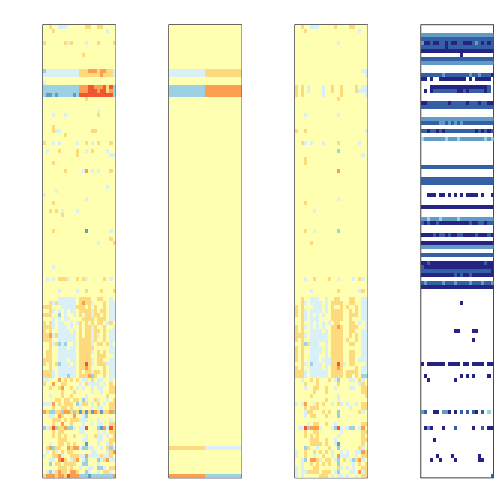
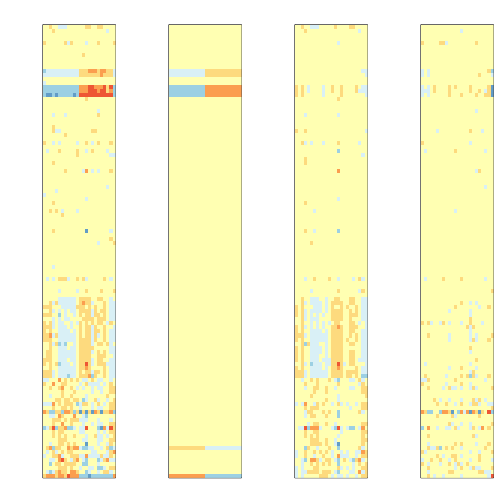
updating svn combat

Changed region(s): [[0.8333, 0.0298, 0.9821, 0.9524]]

diff --git a/pages/svacombat.md b/pages/svacombat.md
@@ -5,7 +5,6 @@ title: Batch adjustment
 
 
 
-
 To illustrate how we can adjust for batch effects using statistcal methods, we will create a data example in which the outcome of interest is confounded with batch but not completely. We will also select a outcome for which we have an expectation of what genes should be differentially expressed. Namely, we make sex the outcome of interest and expect genes on the Y chromosome to be differentially expressed. Note that we may also see genes from the X chromosome as differentially expressed as some escape X inactivation. 
 
 We start by finding the genes on the Y chromosome.
@@ -25,7 +24,6 @@ library(Biobase)
 
 ```
 ## Loading required package: BiocGenerics
-## Loading required package: methods
 ## Loading required package: parallel
 ## 
 ## Attaching package: 'BiocGenerics'
@@ -71,7 +69,7 @@ library(genefilter)
 
 ```r
 data(GSE5859)
-library(hgfocus.db)  ##get the gene chromosome
+library(hgfocus.db) ##get the gene chromosome
 ```
 
 ```
@@ -82,30 +80,24 @@ library(hgfocus.db)  ##get the gene chromosome
 ```
 
 ```r
-chr <- mget(featureNames(e), hgfocusCHRLOC)
-chr <- sapply(chr, function(x) {
-    tmp <- names(x[1])
-    ifelse(is.null(tmp), NA, paste0("chr", tmp))
-})
-y <- colMeans(exprs(e)[which(chr == "chrY"), ])
-sex <- ifelse(y < 4.5, "F", "M")
+chr<-mget(featureNames(e),hgfocusCHRLOC)
+chr <- sapply(chr,function(x){ tmp<-names(x[1]); ifelse(is.null(tmp),NA,paste0("chr",tmp))})
+y<- colMeans(exprs(e)[which(chr=="chrY"),])
+sex <- ifelse(y<4.5,"F","M")
 ```
-
 
 Now we select samples so that sex and month of hybridization are confounded. 
 
 ```r
-batch <- format(pData(e)$date, "%y%m")
-ind <- which(batch %in% c("0506", "0510"))
+batch <- format(pData(e)$date,"%y%m")
+ind<-which(batch%in%c("0506","0510"))
 set.seed(1)
-N <- 12
-N1 <- 3
-M <- 12
-M1 <- 9
-ind <- c(sample(which(batch == "0506" & sex == "F"), N1), sample(which(batch == 
-    "0510" & sex == "F"), N - N1), sample(which(batch == "0506" & sex == "M"), 
-    M1), sample(which(batch == "0510" & sex == "M"), M - M1))
-table(batch[ind], sex[ind])
+N <- 12; N1 <-3; M<-12; M1<-9
+ind <- c(sample(which(batch=="0506" & sex=="F"),N1),
+sample(which(batch=="0510" & sex=="F"),N-N1),
+sample(which(batch=="0506" & sex=="M"),M1),
+sample(which(batch=="0510" & sex=="M"),M-M1))
+table(batch[ind],sex[ind])
 ```
 
 ```
@@ -115,26 +107,24 @@ table(batch[ind], sex[ind])
 ##   0510 9 3
 ```
 
-
 To illustrate the confounding we will pick some genes to show in a heatmap plot. We pick all Y chromosome genes, some genes that we see correlate with batch, and then some randomly selected genes.
 
 
 ```r
 set.seed(1)
-tt <- genefilter::rowttests(exprs(e)[, ind], factor(batch[ind]))
-ind1 <- which(chr == "chrY")  ##real differences
-ind2 <- setdiff(c(order(tt$dm)[1:25], order(-tt$dm)[1:25]), ind1)
-ind0 <- setdiff(sample(seq(along = tt$dm), 50), c(ind2, ind1))
-geneindex <- c(ind2, ind0, ind1)
-mat <- exprs(e)[geneindex, ind]
-mat <- mat - rowMeans(mat)  #;mat[mat>3]<-3;mat[mat< -3]<- -3
-icolors <- rev(brewer.pal(11, "RdYlBu"))
-mypar(1, 1)
-image(t(mat), xaxt = "n", yaxt = "n", col = icolors)
+tt<-genefilter::rowttests(exprs(e)[,ind],factor(batch[ind]))
+ind1 <- which(chr=="chrY") ##real differences
+ind2 <- setdiff(c(order(tt$dm)[1:25],order(-tt$dm)[1:25]),ind1)
+ind0 <- setdiff(sample(seq(along=tt$dm),50),c(ind2,ind1))
+geneindex<-c(ind2,ind0,ind1)
+mat<-exprs(e)[geneindex,ind]
+mat <- mat-rowMeans(mat)#;mat[mat>3]<-3;mat[mat< -3]<- -3
+icolors <- rev(brewer.pal(11,"RdYlBu"))
+mypar(1,1)
+image(t(mat),xaxt="n",yaxt="n",col=icolors)
 ```
 
 ![plot of chunk unnamed-chunk-3](figure/svacombat-unnamed-chunk-3.png) 
-
 
 So what follows is like the analysis we would do in practice. We don't know there is a batch and we are interested in finding genes that are different between males and females. We start by computing t-statistics and p-values comparing males and females. We use histograms to notice the problem introduced by the batch.
 
@@ -144,14 +134,13 @@ The batch effect adjustment methods are best described with the linear models so
 
 
 ```r
-dat <- exprs(e)[, ind]
-X <- sex[ind]  ## the covariate
+dat <- exprs(e)[,ind]
+X <- sex[ind] ## the covariate
 Z <- batch[ind]
-tt <- genefilter::rowttests(dat, factor(X))
-HLIM <- c(0, 1500)
-mypar(1, 2)
-hist(tt$p[!chr %in% c("chrX", "chrY")], nc = 20, xlab = "p-value", ylim = HLIM, 
-    main = "")
+tt<-genefilter::rowttests(dat,factor(X))
+HLIM<-c(0,1500)
+mypar(1,2)
+hist(tt$p[!chr%in%c("chrX","chrY")],nc=20,xlab="p-value",ylim=HLIM,main="")
 ```
 
 ```
@@ -159,7 +148,7 @@ hist(tt$p[!chr %in% c("chrX", "chrY")], nc = 20, xlab = "p-value", ylim = HLIM,
 ```
 
 ```r
-hist(tt$p[chr %in% c("chrY")], nc = 20, xlab = "p-value", ylim = c(0, 9), main = "")
+hist(tt$p[chr%in%c("chrY")],nc=20,xlab="p-value",ylim=c(0,9),main="")
 ```
 
 ```
@@ -167,7 +156,6 @@ hist(tt$p[chr %in% c("chrY")], nc = 20, xlab = "p-value", ylim = c(0, 9), main =
 ```
 
 ![plot of chunk unnamed-chunk-4](figure/svacombat-unnamed-chunk-4.png) 
-
 
 
 ## Combat
@@ -183,12 +171,12 @@ library(sva)
 ## Loading required package: corpcor
 ## Loading required package: mgcv
 ## Loading required package: nlme
-## This is mgcv 1.7-29. For overview type 'help("mgcv-package")'.
+## This is mgcv 1.8-1. For overview type 'help("mgcv-package")'.
 ```
 
 ```r
-mod <- model.matrix(~X)
-cleandat <- ComBat(dat, Z, mod)
+mod<-model.matrix(~X)
+cleandat <- ComBat(dat,Z,mod)
 ```
 
 ```
@@ -201,10 +189,9 @@ cleandat <- ComBat(dat, Z, mod)
 ```
 
 ```r
-tt <- genefilter::rowttests(cleandat, factor(X))
-mypar(1, 1)
-hist(tt$p[!chr %in% c("chrX", "chrY")], nc = 20, xlab = "p-value", ylim = HLIM, 
-    main = "")
+tt<-genefilter::rowttests(cleandat,factor(X))
+mypar(1,1)
+hist(tt$p[!chr%in%c("chrX","chrY")],nc=20,xlab="p-value",ylim=HLIM,main="")
 ```
 
 ```
@@ -214,7 +201,7 @@ hist(tt$p[!chr %in% c("chrX", "chrY")], nc = 20, xlab = "p-value", ylim = HLIM,
 ![plot of chunk unnamed-chunk-5](figure/svacombat-unnamed-chunk-51.png) 
 
 ```r
-hist(tt$p[chr %in% c("chrY")], nc = 20, xlab = "p-value", ylim = c(0, 9), main = "")
+hist(tt$p[chr%in%c("chrY")],nc=20,xlab="p-value",ylim=c(0,9),main="")
 ```
 
 ```
@@ -223,20 +210,18 @@ hist(tt$p[chr %in% c("chrY")], nc = 20, xlab = "p-value", ylim = c(0, 9), main =
 
 ![plot of chunk unnamed-chunk-5](figure/svacombat-unnamed-chunk-52.png) 
 
-
 But what exactly is a batch?
 
 ```r
 times <- (pData(e)$date)
-mypar(1, 2)
-o = order(times)
-plot(times[o], pch = 21, bg = as.fumeric(batch)[o], ylab = "date")
-o = order(times[ind])
-plot(times[ind][o], pch = 21, bg = as.fumeric(batch)[ind][o], ylab = "date")
+mypar(1,2)
+o=order(times)
+plot(times[o],pch=21,bg=as.fumeric(batch)[o],ylab="date")
+o=order(times[ind])
+plot(times[ind][o],pch=21,bg=as.fumeric(batch)[ind][o],ylab="date")
 ```
 
 ![plot of chunk unnamed-chunk-6](figure/svacombat-unnamed-chunk-6.png) 
-
 
 
 ## Principal component analysis and Singular value decomposition
@@ -297,77 +282,67 @@ library(MASS)
 
 ```r
 set.seed(1)
-y = mvrnorm(1000, c(0, 0), 3^2 * matrix(c(1, 0.9, 0.9, 1), 2, 2))
-mypar(1, 1)
-plot(y, xlab = "Twin 1 (inches away from avg)", ylab = "Twin 2 (inches away from avg)")
+y=mvrnorm(1000,c(0,0),3^2*matrix(c(1,.9,.9,1),2,2))
+mypar(1,1)
+plot(y,xlab="Twin 1 (inches away from avg)",ylab="Twin 2 (inches away from avg)")
 ```
 
 ![plot of chunk unnamed-chunk-7](figure/svacombat-unnamed-chunk-7.png) 
-
 
 
 Transmitting the two heights seems inefficient given how correlated they. If we tranmist the pricipal components instead we save money. Let's see how:
 
 
 ```r
-s = svd(y)
-plot(s$u[, 1] * s$d[1], s$u[, 2] * s$d[2], ylim = range(s$u[, 1] * s$d[1]), 
-    xlab = "First PC", ylab = "Second PC")
+s=svd(y)
+plot(s$u[,1]*s$d[1],s$u[,2]*s$d[2],ylim=range(s$u[,1]*s$d[1]),xlab="First PC",ylab="Second PC")
 ```
 
 ![plot of chunk unnamed-chunk-8](figure/svacombat-unnamed-chunk-8.png) 
-
 
 ## SVA
 
 
 ```r
-s <- svd(dat - rowMeans(dat))
-mypar(1, 1)
-o <- order(Z)
-plot(s$v[o, 1], pch = 21, cex = 1.25, bg = as.fumeric(Z)[o], ylab = "First eigenvector", 
-    xaxt = "n", xlab = "")
-legend("topleft", c("batch 1", "batch 2"), col = 1:2, lty = 1, box.lwd = 0)
+s <- svd(dat-rowMeans(dat))
+mypar(1,1)
+o<-order(Z)
+plot(s$v[o,1],pch=21,cex=1.25,bg=as.fumeric(Z)[o],ylab="First eigenvector",xaxt="n",xlab="")
+legend("topleft",c("batch 1","batch 2"),col=1:2,lty=1,box.lwd=0)
 ```
 
 ![plot of chunk unnamed-chunk-9](figure/svacombat-unnamed-chunk-91.png) 
 
 ```r
-
-mypar(1, 1)
-plot(s$d^2/sum(s$d^2), ylab = "% variance explained", xlab = "Principal component")
+mypar(1,1)
+plot(s$d^2/sum(s$d^2),ylab="% variance explained",xlab="Principal component")
 ```
 
 ![plot of chunk unnamed-chunk-9](figure/svacombat-unnamed-chunk-92.png) 
 
 ```r
-
-mypar2(3, 4)
-for (i in 1:12) boxplot(split(s$v[, i], Z))
+mypar2(3,4)
+for(i in 1:12)
+boxplot(split(s$v[,i],Z))
 ```
 
 ![plot of chunk unnamed-chunk-9](figure/svacombat-unnamed-chunk-93.png) 
 
 ```r
-
 times <- (pData(e)$date)
-day <- as.numeric(times[ind])
-day <- day - min(day)
-for (i in 1:12) boxplot(split(s$v[, i], day))
+day<-as.numeric(times[ind]);day<- day-min(day)
+for(i in 1:12)
+boxplot(split(s$v[,i],day))
 ```
 
 ![plot of chunk unnamed-chunk-9](figure/svacombat-unnamed-chunk-94.png) 
 
 ```r
-
-
-D <- s$d
-D[1:6] <- 0  ##take out first 2
-cleandat <- sweep(s$u, 2, D, "*") %*% t(s$v)
-tt <- rowttests(cleandat, factor(X))
-mypar(1, 2)
-hist(tt$p[!chr %in% c("chrX", "chrY")], nc = 20, xlab = "p-value", ylim = HLIM, 
-    main = "")
+D <- s$d; D[1:6]<-0 ##take out first 2
+cleandat <- sweep(s$u,2,D,"*")%*%t(s$v)
+tt<-rowttests(cleandat,factor(X))
+mypar(1,2)
+hist(tt$p[!chr%in%c("chrX","chrY")],nc=20,xlab="p-value",ylim=HLIM,main="")
 ```
 
 ```
@@ -375,7 +350,7 @@ hist(tt$p[!chr %in% c("chrX", "chrY")], nc = 20, xlab = "p-value", ylim = HLIM,
 ```
 
 ```r
-hist(tt$p[chr %in% c("chrY")], nc = 20, xlab = "p-value", ylim = c(0, 9), main = "")
+hist(tt$p[chr%in%c("chrY")],nc=20,xlab="p-value",ylim=c(0,9),main="")
 ```
 
 ```
@@ -383,7 +358,6 @@ hist(tt$p[chr %in% c("chrY")], nc = 20, xlab = "p-value", ylim = c(0, 9), main =
 ```
 
 ![plot of chunk unnamed-chunk-9](figure/svacombat-unnamed-chunk-95.png) 
-
 
 
 ```r
@@ -400,7 +374,7 @@ library(limma)
 ```
 
 ```r
-svafit <- sva(dat, mod)
+svafit <- sva(dat,mod)
 ```
 
 ```
@@ -409,36 +383,34 @@ svafit <- sva(dat, mod)
 ```
 
 ```r
-svaX <- model.matrix(~X + svafit$sv)
-lmfit <- lmFit(dat, svaX)
-tt <- lmfit$coef[, 2] * sqrt(lmfit$df.residual)/(2 * lmfit$sigma)
-mypar(1, 2)
-pval <- 2 * (1 - pt(abs(tt), lmfit$df.residual[1]))
-hist(pval[!chr %in% c("chrX", "chrY")], xlab = "p-values", ylim = HLIM, main = "")
-hist(pval[chr %in% c("chrY")], nc = 20, xlab = "p-value", ylim = c(0, 9), main = "")
+svaX<-model.matrix(~X+svafit$sv)
+lmfit <- lmFit(dat,svaX)
+tt<-lmfit$coef[,2]*sqrt(lmfit$df.residual)/(2*lmfit$sigma)
+mypar(1,2)
+pval<-2*(1-pt(abs(tt),lmfit$df.residual[1]))
+hist(pval[!chr%in%c("chrX","chrY")],xlab="p-values",ylim=HLIM,main="")
+hist(pval[chr%in%c("chrY")],nc=20,xlab="p-value",ylim=c(0,9),main="")
 ```
 
 ![plot of chunk unnamed-chunk-10](figure/svacombat-unnamed-chunk-10.png) 
 
-
 Decompose the data
 
 ```r
-Batch <- lmfit$coef[geneindex, 3:7] %*% t(svaX[, 3:7])
-Signal <- lmfit$coef[geneindex, 1:2] %*% t(svaX[, 1:2])
-error <- mat - Signal - Batch
-## demean for plot
-Signal <- Signal - rowMeans(Signal)
-mat <- mat - rowMeans(mat)
-mypar(1, 4, mar = c(2.75, 4.5, 2.6, 1.1))
-image(t(mat), col = icolors, zlim = c(-5, 5), xaxt = "n", yaxt = "n")
-image(t(Signal), col = icolors, zlim = c(-5, 5), xaxt = "n", yaxt = "n")
-image(t(Batch), col = icolors, zlim = c(-5, 5), xaxt = "n", yaxt = "n")
-image(t(error), col = icolors, zlim = c(-5, 5), xaxt = "n", yaxt = "n")
+Batch<- lmfit$coef[geneindex,3:7]%*%t(svaX[,3:7])
+Signal<-lmfit$coef[geneindex,1:2]%*%t(svaX[,1:2])
+error <- dat[geneindex,]-Signal-Batch
+##demean for plot
+Signal <-Signal-rowMeans(Signal)
+mat <- dat[geneindex,]-rowMeans(dat[geneindex,])
+mypar(1,4,mar = c(2.75, 4.5, 2.6, 1.1))
+image(t(mat),col=icolors,zlim=c(-5,5),xaxt="n",yaxt="n")
+image(t(Signal),col=icolors,zlim=c(-5,5),xaxt="n",yaxt="n")
+image(t(Batch),col=icolors,zlim=c(-5,5),xaxt="n",yaxt="n")
+image(t(error),col=icolors,zlim=c(-5,5),xaxt="n",yaxt="n")
 ```
 
 ![plot of chunk unnamed-chunk-11](figure/svacombat-unnamed-chunk-11.png) 
-
 
 ## Footnotes
 
